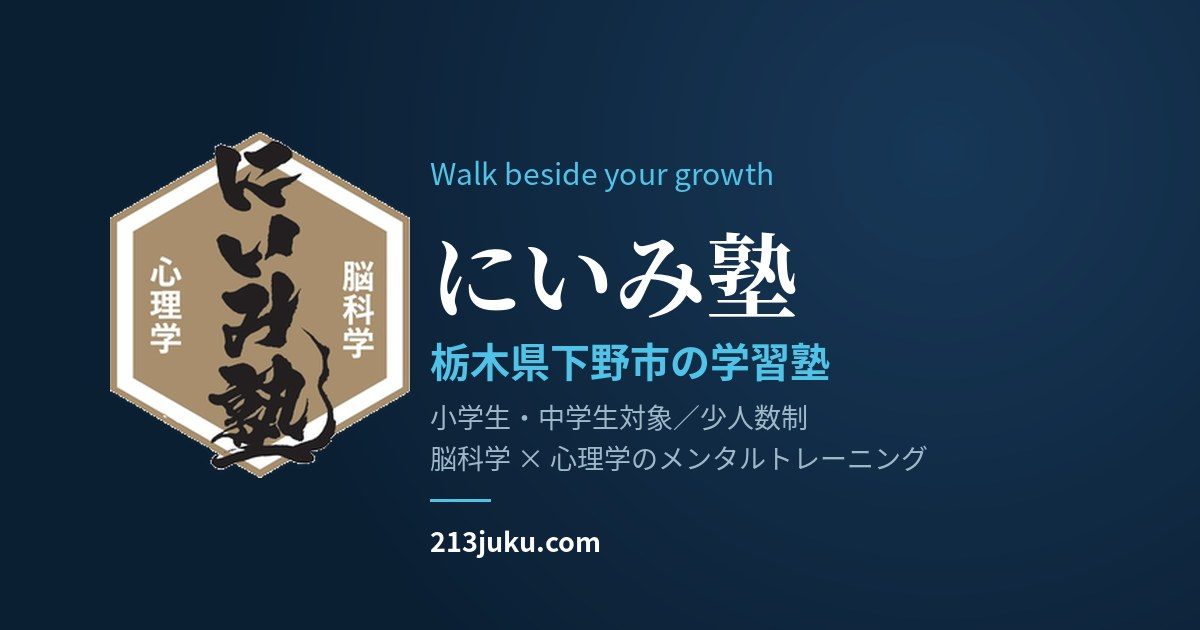
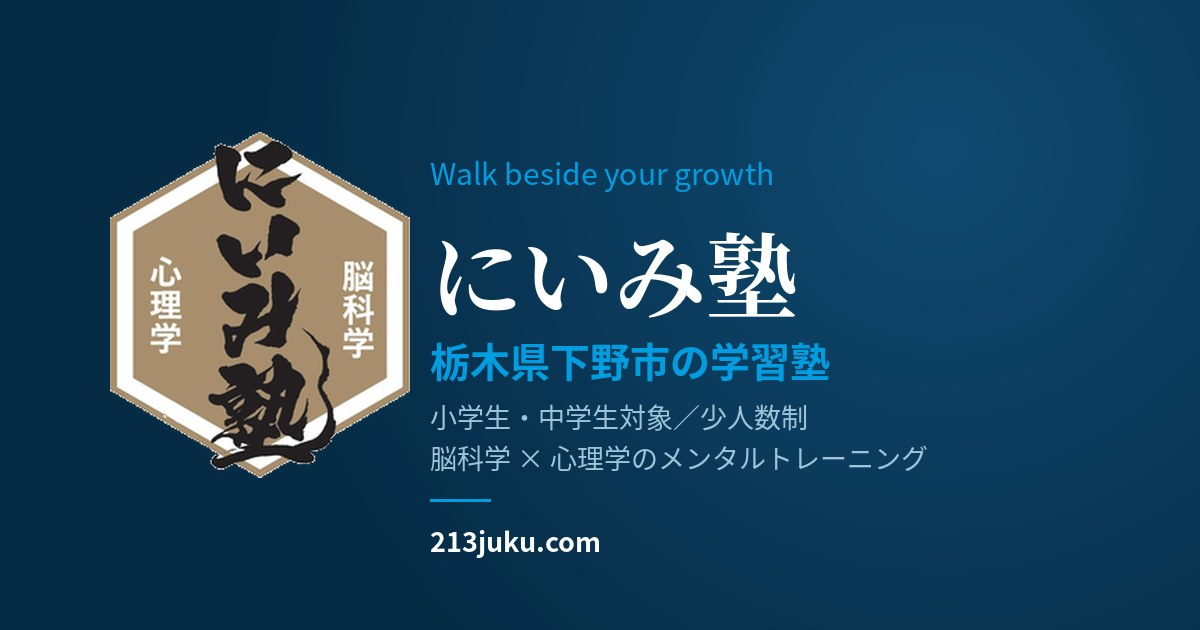
Re-skin the site with Surala brand colours

diff --git a/style.css b/style.css
@@ -5,20 +5,21 @@
    にいみ塾 ── Design Tokens
    ========================================================================== */
 :root{
-  --navy:#0B1F33;
-  --navy-light:#15324F;
-  --navy-soft:#1E4263;
-  --sky:#4FC3E8;
-  --sky-deep:#2FA8D6;
-  --sky-pale:#EAF6FB;
-  --sky-pale-2:#DCEFF8;
+  --navy:#062B45;
+  --navy-light:#0E4266;
+  --navy-soft:#175E8C;
+  --sky:#57C7F0;
+  --sky-deep:#009DE1;
+  --sky-pale:#EAF6FD;
+  --sky-pale-2:#D6EDFB;
   --white:#FFFFFF;
   --ink:#16242E;
   --ink-soft:#46586A;
-  --mist:#9FB8C9;
-  --line:rgba(79,195,232,0.25);
-  --shadow: 0 20px 60px rgba(11,31,51,0.18);
-  --akapen:#E2574C; /* 花丸・注意喚起用の朱色アクセント */
+  --mist:#9FC4D9;
+  --line:rgba(0,157,225,0.25);
+  --shadow: 0 20px 60px rgba(6,43,69,0.18);
+  --akapen:#E9528E; /* すららピンク */
+  --amber:#F5A200; /* すららオレンジ（注目コース用） */
 }
 *{box-sizing:border-box;}
 html{scroll-behavior:smooth;}
@@ -61,7 +62,7 @@ img{ max-width:100%; height:auto; display:block; }
   transition:background .4s ease, padding .4s ease, box-shadow .4s ease;
 }
 .nav.scrolled{
-  background:rgba(11,31,51,0.92);
+  background:rgba(6,43,69,0.92);
   backdrop-filter:blur(10px);
   padding:14px 36px;
   box-shadow:0 8px 30px rgba(0,0,0,.15);
@@ -87,7 +88,7 @@ img{ max-width:100%; height:auto; display:block; }
   transition:border-color .2s ease, background .2s ease;
   white-space:nowrap;
 }
-.nav-menu-toggle:hover, .nav-menu-toggle.is-open{ border-color:var(--sky); background:rgba(79,195,232,.1); }
+.nav-menu-toggle:hover, .nav-menu-toggle.is-open{ border-color:var(--sky); background:rgba(0,157,225,.1); }
 .nav-menu-toggle .caret{ font-size:10px; color:var(--sky); transition:transform .2s ease; }
 .nav-menu-toggle.is-open .caret{ transform:rotate(180deg); }
 .nav-menu-dropdown{
@@ -105,7 +106,7 @@ img{ max-width:100%; height:auto; display:block; }
   display:block; padding:10px 10px; color:var(--mist); font-size:13.5px; letter-spacing:.02em;
   border-radius:6px; transition:background .2s ease, color .2s ease;
 }
-.nav-menu-dropdown a:hover{ background:rgba(79,195,232,.14); color:var(--white); }
+.nav-menu-dropdown a:hover{ background:rgba(0,157,225,.14); color:var(--white); }
 @media (max-width:640px){
   .nav-menu-dropdown{ grid-template-columns:1fr; width:88vw; left:-14px; padding:14px; }
   .nav-logo .mark{ display:none; }
@@ -151,13 +152,13 @@ img{ max-width:100%; height:auto; display:block; }
 /* ===== Hero (トップページ用の大きいヒーロー) ===== */
 .hero{
   position:relative; min-height:100vh; display:flex; align-items:center;
-  background:radial-gradient(120% 100% at 80% 10%, #163654 0%, var(--navy) 55%, #081522 100%);
+  background:radial-gradient(120% 100% at 80% 10%, #0E4266 0%, var(--navy) 55%, #021A29 100%);
   overflow:hidden; color:var(--white); padding-top:90px;
 }
 .hero-glow{
   position:absolute; width:620px; height:620px; border-radius:50%;
   right:-160px; top:-120px;
-  background:radial-gradient(circle, rgba(79,195,232,0.55) 0%, rgba(79,195,232,0.08) 55%, transparent 70%);
+  background:radial-gradient(circle, rgba(0,157,225,0.55) 0%, rgba(0,157,225,0.08) 55%, transparent 70%);
   filter:blur(10px); animation:drift 14s ease-in-out infinite alternate;
 }
 @keyframes drift{ 0%{transform:translate(0,0) scale(1);} 100%{transform:translate(-30px,40px) scale(1.08);} }
@@ -180,11 +181,11 @@ img{ max-width:100%; height:auto; display:block; }
 .cta-row{ display:flex; gap:14px; flex-wrap:wrap; justify-content:center; }
 .sns-row{ display:flex; gap:12px; flex-wrap:wrap; justify-content:center; margin-top:24px; }
 .sns-btn{ display:flex; align-items:center; gap:8px; padding:10px 18px; border-radius:999px; font-size:12.5px; letter-spacing:.05em; border:1px solid rgba(255,255,255,.28); color:var(--white); transition:all .3s ease; white-space:nowrap; }
-.sns-btn:hover{ border-color:var(--sky); background:rgba(79,195,232,.1); transform:translateY(-2px); }
+.sns-btn:hover{ border-color:var(--sky); background:rgba(0,157,225,.1); transform:translateY(-2px); }
 .sns-btn svg{ width:16px; height:16px; flex:none; }
 .sns-btn.sns-line{ background:#06C755; border-color:#06C755; }
 .sns-btn.sns-line:hover{ background:#05b34c; border-color:#05b34c; }
-.btn-primary:hover{ background:var(--white); transform:translateY(-2px); box-shadow:0 12px 30px rgba(79,195,232,.35); }
+.btn-primary:hover{ background:var(--white); transform:translateY(-2px); box-shadow:0 12px 30px rgba(0,157,225,.35); }
 .btn-ghost{ border-color:rgba(255,255,255,.35); color:var(--white); }
 .btn-ghost:hover{ border-color:var(--sky); color:var(--sky); transform:translateY(-2px); }
 .btn-navy{ background:var(--navy); color:var(--white); }
@@ -203,7 +204,7 @@ img{ max-width:100%; height:auto; display:block; }
 /* ===== ページヒーロー(下層ページ用の小さめヒーロー) ===== */
 .page-hero{
   position:relative; padding:170px 0 90px;
-  background:radial-gradient(120% 100% at 80% 10%, #163654 0%, var(--navy) 55%, #081522 100%);
+  background:radial-gradient(120% 100% at 80% 10%, #0E4266 0%, var(--navy) 55%, #021A29 100%);
   color:var(--white); overflow:hidden;
 }
 .page-hero .hero-glow{ width:420px; height:420px; right:-120px; top:-100px; }
@@ -237,7 +238,7 @@ section{ position:relative; padding:120px 0; }
 .about-visual-inner .note-title{ font-family:'Shippori Mincho',serif; font-size:17px; margin-bottom:22px; }
 .about-visual-inner .note-line{ display:flex; align-items:baseline; gap:10px; padding:11px 0; border-bottom:1px dashed rgba(255,255,255,.18); font-size:13.5px; color:var(--mist); }
 .about-visual-inner .note-line span.num{ color:var(--sky); font-family:'Cormorant Garamond',serif; font-style:italic; font-size:15px; flex:none; }
-.about-tag{ position:absolute; bottom:24px; left:24px; color:var(--white); font-size:12px; letter-spacing:.2em; border:1px solid rgba(255,255,255,.3); padding:8px 16px; border-radius:999px; z-index:2; background:rgba(11,31,51,.35); backdrop-filter:blur(4px); }
+.about-tag{ position:absolute; bottom:24px; left:24px; color:var(--white); font-size:12px; letter-spacing:.2em; border:1px solid rgba(255,255,255,.3); padding:8px 16px; border-radius:999px; z-index:2; background:rgba(6,43,69,.35); backdrop-filter:blur(4px); }
 .about-text p{ color:var(--ink-soft); font-size:15.5px; }
 .about-facts{ display:grid; grid-template-columns:1fr 1fr; gap:18px 28px; margin-top:36px; padding-top:30px; border-top:1px solid var(--sky-pale-2); }
 @media (max-width:480px){ .about-facts{ grid-template-columns:1fr; } }
@@ -260,7 +261,7 @@ section{ position:relative; padding:120px 0; }
 .t-text{ color:var(--ink-soft); font-size:14.5px; max-width:620px; }
 .t-item.is-turn .t-title{ color:var(--sky-deep); }
 .story-quote{ margin-top:90px; padding:54px 60px; background:var(--navy); border-radius:6px; color:var(--white); position:relative; overflow:hidden; }
-.story-quote::before{ content:"”"; position:absolute; font-family:'Shippori Mincho',serif; font-size:220px; color:rgba(79,195,232,.15); right:24px; top:-60px; line-height:1; }
+.story-quote::before{ content:"”"; position:absolute; font-family:'Shippori Mincho',serif; font-size:220px; color:rgba(0,157,225,.15); right:24px; top:-60px; line-height:1; }
 .story-quote p{ font-family:'Shippori Mincho',serif; font-size:clamp(17px,2.2vw,22px); line-height:2; margin:0; max-width:680px; position:relative; z-index:1; }
 .story-quote span{ display:block; margin-top:24px; font-size:13px; letter-spacing:.2em; color:var(--sky); }
 @media (max-width:860px){ .story-quote{ padding:36px 26px; } }
@@ -307,9 +308,9 @@ a.result-pill:hover{ background:var(--sky-pale); border-color:var(--sky); transf
 /* ===== コースカード ===== */
 .course-grid{ display:grid; grid-template-columns:repeat(2, 1fr); gap:26px; }
 .course-card{ background:var(--white); border:1px solid var(--sky-pale-2); border-radius:8px; padding:34px; box-shadow:var(--shadow); border-top:4px solid var(--sky); display:flex; flex-direction:column; gap:14px; }
-.course-card.is-featured{ border-top-color:var(--navy); }
+.course-card.is-featured{ border-top-color:var(--amber); }
 .course-card .tag{ align-self:flex-start; font-size:11.5px; font-weight:500; letter-spacing:.1em; padding:5px 14px; border-radius:999px; background:var(--sky-pale); color:var(--sky-deep); }
-.course-card.is-featured .tag{ background:var(--navy); color:var(--white); }
+.course-card.is-featured .tag{ background:var(--amber); color:var(--white); }
 .course-card h3{ font-size:21px; }
 .course-card ul{ margin:0; padding-left:1.15em; color:var(--ink-soft); font-size:14px; }
 .course-card li{ margin-bottom:7px; }
@@ -335,7 +336,7 @@ a.result-pill:hover{ background:var(--sky-pale); border-color:var(--sky); transf
 /* ===== 喜びの声ギャラリー / ライトボックス ===== */
 .voice-gallery{ display:grid; grid-template-columns:repeat(auto-fill, minmax(230px, 1fr)); gap:22px; }
 .voice-gallery-item{ background:var(--white); border:1px solid var(--sky-pale-2); border-radius:8px; padding:10px; box-shadow:var(--shadow); cursor:zoom-in; transition:transform .25s ease, box-shadow .25s ease; }
-.voice-gallery-item:hover{ transform:translateY(-5px); box-shadow:0 26px 50px -18px rgba(11,31,51,.3); }
+.voice-gallery-item:hover{ transform:translateY(-5px); box-shadow:0 26px 50px -18px rgba(6,43,69,.3); }
 .voice-gallery-item img{ width:100%; border-radius:4px; display:block; }
 .lightbox-overlay{ position:fixed; inset:0; background:rgba(8,20,32,.94); z-index:300; display:flex; align-items:center; justify-content:center; padding:40px; opacity:0; pointer-events:none; transition:opacity .25s ease; }
 .lightbox-overlay.is-open{ opacity:1; pointer-events:auto; }
@@ -353,8 +354,8 @@ a.result-pill:hover{ background:var(--sky-pale); border-color:var(--sky); transf
 .faq-item .faq-a{ padding:0 26px 22px; color:var(--ink-soft); font-size:14px; }
 
 /* ===== Booking / CTA ===== */
-.booking{ background:linear-gradient(135deg, var(--navy) 0%, #0E2A44 60%, var(--navy) 100%); color:var(--white); text-align:center; position:relative; overflow:hidden; }
-.booking::before{ content:""; position:absolute; width:500px; height:500px; border-radius:50%; left:50%; top:50%; transform:translate(-50%,-50%); background:radial-gradient(circle, rgba(79,195,232,.18), transparent 70%); }
+.booking{ background:linear-gradient(135deg, var(--navy) 0%, #08375A 60%, var(--navy) 100%); color:var(--white); text-align:center; position:relative; overflow:hidden; }
+.booking::before{ content:""; position:absolute; width:500px; height:500px; border-radius:50%; left:50%; top:50%; transform:translate(-50%,-50%); background:radial-gradient(circle, rgba(0,157,225,.18), transparent 70%); }
 .booking-inner{ position:relative; z-index:1; max-width:620px; margin:0 auto; }
 .booking h2{ margin:18px 0 22px; color:var(--white); }
 .booking p{ color:var(--mist); font-size:15px; margin-bottom:40px; }
@@ -385,7 +386,7 @@ a.result-pill:hover{ background:var(--sky-pale); border-color:var(--sky); transf
 /* ===== SNS / Contact links grid ===== */
 .sns-grid{ display:grid; grid-template-columns:repeat(3,1fr); gap:18px; margin-top:50px; }
 .sns-card{ background:rgba(255,255,255,.04); border:1px solid rgba(255,255,255,.14); border-radius:6px; padding:26px 18px; text-align:center; transition:all .3s ease; }
-.sns-card:hover{ background:rgba(79,195,232,.12); border-color:var(--sky); transform:translateY(-4px); }
+.sns-card:hover{ background:rgba(0,157,225,.12); border-color:var(--sky); transform:translateY(-4px); }
 .sns-card svg{ width:26px; height:26px; margin:0 auto 14px; display:block; }
 .sns-card span{ font-size:12.5px; letter-spacing:.12em; color:var(--white); }
 @media (max-width:860px){ .sns-grid{ grid-template-columns:repeat(2,1fr); } }
@@ -444,7 +445,7 @@ a.result-pill:hover{ background:var(--sky-pale); border-color:var(--sky); transf
 @media (max-width:860px){ .staff-grid{ grid-template-columns:1fr; } }
 
 /* ===== フッター ===== */
-footer{ background:#081420; color:var(--mist); padding:64px 0 30px; }
+footer{ background:#02141F; color:var(--mist); padding:64px 0 30px; }
 .footer-grid{ display:grid; grid-template-columns:1.4fr 1fr 1fr; gap:40px; padding-bottom:36px; border-bottom:1px solid rgba(255,255,255,0.1); }
 .f-name{ font-family:'Shippori Mincho',serif; color:var(--white); font-size:18px; margin-bottom:12px; }
 .footer-grid p{ font-size:13px; color:var(--mist); max-width:34ch; line-height:1.9; }

diff --git a/access.html b/access.html
@@ -41,7 +41,7 @@
 <link rel="icon" href="/favicon.ico" sizes="any">
 <link rel="apple-touch-icon" href="/apple-touch-icon.png">
 <link rel="manifest" href="/site.webmanifest">
-<meta name="theme-color" content="#0B1F33">
+<meta name="theme-color" content="#062B45">
 <meta property="og:image:width" content="1200">
 <meta property="og:image:height" content="630">
 <meta property="og:image:type" content="image/jpeg">
@@ -49,6 +49,7 @@
 <meta name="twitter:image" content="https://213juku.com/og-image.jpg">
 <meta name="geo.region" content="JP-09">
 <meta name="geo.placename" content="栃木県下野市">
+
 
 
 

diff --git a/contact.html b/contact.html
@@ -41,7 +41,7 @@
 <link rel="icon" href="/favicon.ico" sizes="any">
 <link rel="apple-touch-icon" href="/apple-touch-icon.png">
 <link rel="manifest" href="/site.webmanifest">
-<meta name="theme-color" content="#0B1F33">
+<meta name="theme-color" content="#062B45">
 <meta property="og:image:width" content="1200">
 <meta property="og:image:height" content="630">
 <meta property="og:image:type" content="image/jpeg">
@@ -49,6 +49,7 @@
 <meta name="twitter:image" content="https://213juku.com/og-image.jpg">
 <meta name="geo.region" content="JP-09">
 <meta name="geo.placename" content="栃木県下野市">
+
 
 
 

diff --git a/facility.html b/facility.html
@@ -41,7 +41,7 @@
 <link rel="icon" href="/favicon.ico" sizes="any">
 <link rel="apple-touch-icon" href="/apple-touch-icon.png">
 <link rel="manifest" href="/site.webmanifest">
-<meta name="theme-color" content="#0B1F33">
+<meta name="theme-color" content="#062B45">
 <meta property="og:image:width" content="1200">
 <meta property="og:image:height" content="630">
 <meta property="og:image:type" content="image/jpeg">
@@ -49,6 +49,7 @@
 <meta name="twitter:image" content="https://213juku.com/og-image.jpg">
 <meta name="geo.region" content="JP-09">
 <meta name="geo.placename" content="栃木県下野市">
+
 
 
 

diff --git a/ippo.html b/ippo.html
@@ -41,7 +41,7 @@
 <link rel="icon" href="/favicon.ico" sizes="any">
 <link rel="apple-touch-icon" href="/apple-touch-icon.png">
 <link rel="manifest" href="/site.webmanifest">
-<meta name="theme-color" content="#0B1F33">
+<meta name="theme-color" content="#062B45">
 <meta property="og:image:width" content="1200">
 <meta property="og:image:height" content="630">
 <meta property="og:image:type" content="image/jpeg">
@@ -49,6 +49,7 @@
 <meta name="twitter:image" content="https://213juku.com/og-image.jpg">
 <meta name="geo.region" content="JP-09">
 <meta name="geo.placename" content="栃木県下野市">
+
 
 
 

diff --git a/math-program.html b/math-program.html
@@ -41,7 +41,7 @@
 <link rel="icon" href="/favicon.ico" sizes="any">
 <link rel="apple-touch-icon" href="/apple-touch-icon.png">
 <link rel="manifest" href="/site.webmanifest">
-<meta name="theme-color" content="#0B1F33">
+<meta name="theme-color" content="#062B45">
 <meta property="og:image:width" content="1200">
 <meta property="og:image:height" content="630">
 <meta property="og:image:type" content="image/jpeg">
@@ -49,6 +49,7 @@
 <meta name="twitter:image" content="https://213juku.com/og-image.jpg">
 <meta name="geo.region" content="JP-09">
 <meta name="geo.placename" content="栃木県下野市">
+
 
 
 

diff --git a/mental-program.html b/mental-program.html
@@ -41,7 +41,7 @@
 <link rel="icon" href="/favicon.ico" sizes="any">
 <link rel="apple-touch-icon" href="/apple-touch-icon.png">
 <link rel="manifest" href="/site.webmanifest">
-<meta name="theme-color" content="#0B1F33">
+<meta name="theme-color" content="#062B45">
 <meta property="og:image:width" content="1200">
 <meta property="og:image:height" content="630">
 <meta property="og:image:type" content="image/jpeg">
@@ -49,6 +49,7 @@
 <meta name="twitter:image" content="https://213juku.com/og-image.jpg">
 <meta name="geo.region" content="JP-09">
 <meta name="geo.placename" content="栃木県下野市">
+
 
 
 

diff --git a/news.html b/news.html
@@ -41,7 +41,7 @@
 <link rel="icon" href="/favicon.ico" sizes="any">
 <link rel="apple-touch-icon" href="/apple-touch-icon.png">
 <link rel="manifest" href="/site.webmanifest">
-<meta name="theme-color" content="#0B1F33">
+<meta name="theme-color" content="#062B45">
 <meta property="og:image:width" content="1200">
 <meta property="og:image:height" content="630">
 <meta property="og:image:type" content="image/jpeg">
@@ -49,6 +49,7 @@
 <meta name="twitter:image" content="https://213juku.com/og-image.jpg">
 <meta name="geo.region" content="JP-09">
 <meta name="geo.placename" content="栃木県下野市">
+
 
 
 

diff --git a/policy.html b/policy.html
@@ -41,7 +41,7 @@
 <link rel="icon" href="/favicon.ico" sizes="any">
 <link rel="apple-touch-icon" href="/apple-touch-icon.png">
 <link rel="manifest" href="/site.webmanifest">
-<meta name="theme-color" content="#0B1F33">
+<meta name="theme-color" content="#062B45">
 <meta property="og:image:width" content="1200">
 <meta property="og:image:height" content="630">
 <meta property="og:image:type" content="image/jpeg">
@@ -49,6 +49,7 @@
 <meta name="twitter:image" content="https://213juku.com/og-image.jpg">
 <meta name="geo.region" content="JP-09">
 <meta name="geo.placename" content="栃木県下野市">
+
 
 
 

diff --git a/results.html b/results.html
@@ -41,7 +41,7 @@
 <link rel="icon" href="/favicon.ico" sizes="any">
 <link rel="apple-touch-icon" href="/apple-touch-icon.png">
 <link rel="manifest" href="/site.webmanifest">
-<meta name="theme-color" content="#0B1F33">
+<meta name="theme-color" content="#062B45">
 <meta property="og:image:width" content="1200">
 <meta property="og:image:height" content="630">
 <meta property="og:image:type" content="image/jpeg">
@@ -49,6 +49,7 @@
 <meta name="twitter:image" content="https://213juku.com/og-image.jpg">
 <meta name="geo.region" content="JP-09">
 <meta name="geo.placename" content="栃木県下野市">
+
 
 
 

diff --git a/sbt-athlete.html b/sbt-athlete.html
@@ -41,7 +41,7 @@
 <link rel="icon" href="/favicon.ico" sizes="any">
 <link rel="apple-touch-icon" href="/apple-touch-icon.png">
 <link rel="manifest" href="/site.webmanifest">
-<meta name="theme-color" content="#0B1F33">
+<meta name="theme-color" content="#062B45">
 <meta property="og:image:width" content="1200">
 <meta property="og:image:height" content="630">
 <meta property="og:image:type" content="image/jpeg">
@@ -49,6 +49,7 @@
 <meta name="twitter:image" content="https://213juku.com/og-image.jpg">
 <meta name="geo.region" content="JP-09">
 <meta name="geo.placename" content="栃木県下野市">
+
 
 
 

diff --git a/sbt-license.html b/sbt-license.html
@@ -41,7 +41,7 @@
 <link rel="icon" href="/favicon.ico" sizes="any">
 <link rel="apple-touch-icon" href="/apple-touch-icon.png">
 <link rel="manifest" href="/site.webmanifest">
-<meta name="theme-color" content="#0B1F33">
+<meta name="theme-color" content="#062B45">
 <meta property="og:image:width" content="1200">
 <meta property="og:image:height" content="630">
 <meta property="og:image:type" content="image/jpeg">
@@ -49,6 +49,7 @@
 <meta name="twitter:image" content="https://213juku.com/og-image.jpg">
 <meta name="geo.region" content="JP-09">
 <meta name="geo.placename" content="栃木県下野市">
+
 
 
 
